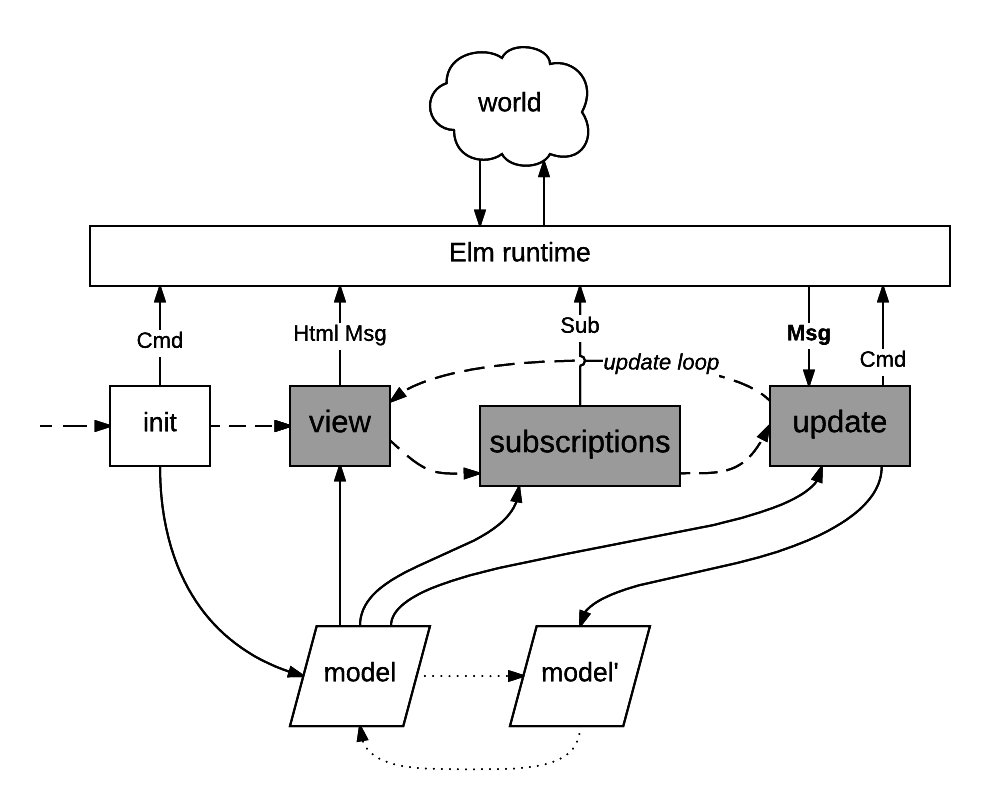
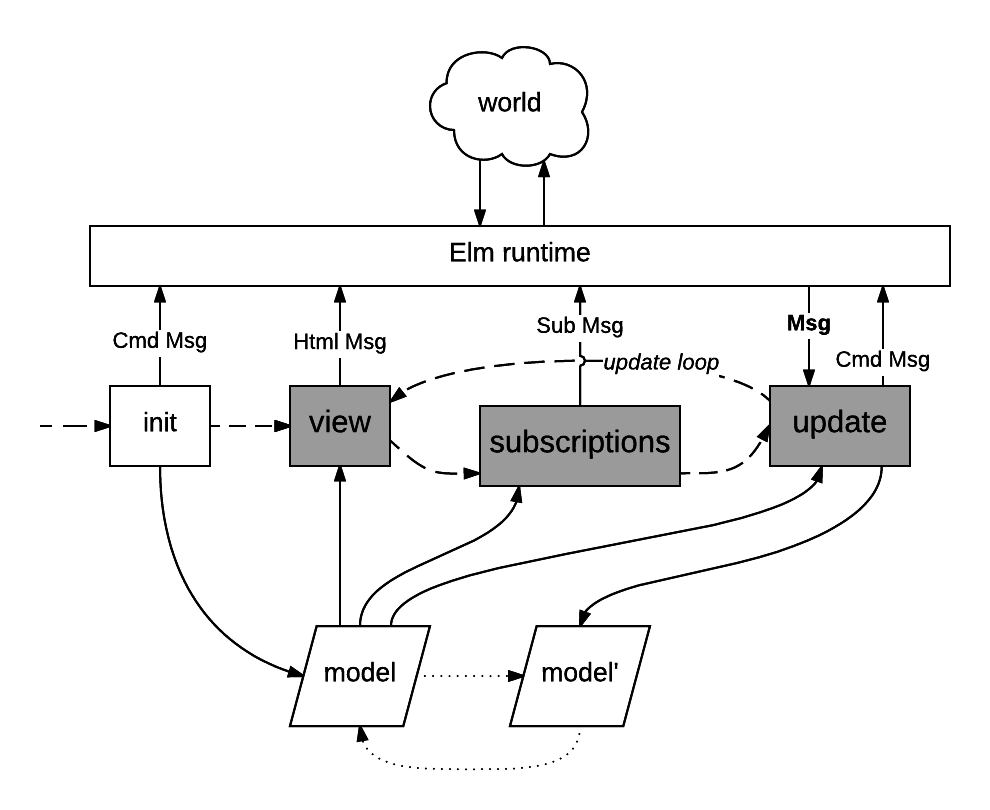
tweak updateloop image

diff --git a/updateloop.md b/updateloop.md
@@ -5,7 +5,7 @@ layout: page
 
 Here is a simplified model of how an Elm 0.17 program operates.
 
-The `update` function blocks waiting for the next incoming `Msg`. When received it creates a new model value. The `view` and `subscriptions` functions then run against the new model value, then `update` waits for the next Msg.
+The `update` function blocks waiting for the next incoming `Msg`. When received it creates a new model value and commands. The `view` and `subscriptions` functions then run against the new model value, producing new `Html Msg` and `Sub Msg` values, respectively. Then `update` waits for the next Msg.
 
 
 <!-- https://www.lucidchart.com/documents/edit/e84d384b-ff47-4549-bb18-df124af6bbae -->
